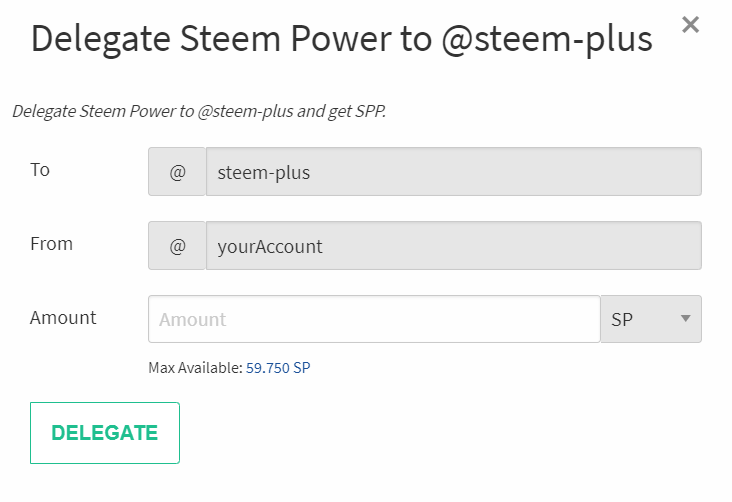
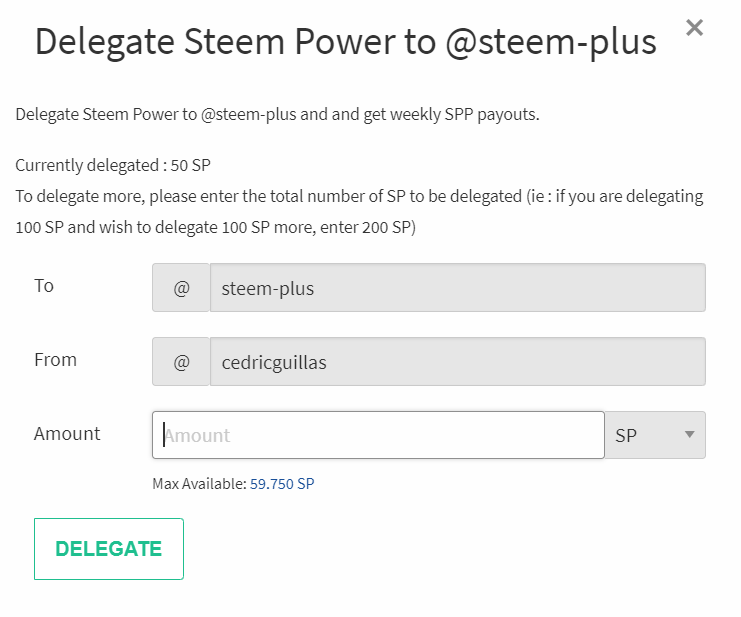
Updated delegation modal style + updated screenshot in slider

diff --git a/src/js/steemplus_points.js b/src/js/steemplus_points.js
@@ -26,7 +26,7 @@ var wayList = [
     {id: "5", title: "Create a new Utopian post using SteemPlus",description: "Post to Utopian by typing utopian-io followed by a space in the tag bar, then following the instructions in the Utopian popup (Login to SteemConnect required).", description_post: "@steem-plus/steemplus-220-utopian--steemplus-partnership--bigger-upvotes", "url": "src/img/howtoearnspp/utopian.png", formula: "The amount @steemplus-pay will receive as a benefactor * 100 (example : if @steemplus-pay receives 5 SBD worth of SP, you will receive 500 SPP)"},
     {id: "6", title: "Buy Steem Monsters packs using SteemPlus",description: "Earn SteemPlus Points (SPP) for each SteemMonsters pack you buy from SteemPlus. <br> If you don\'t have an account on SteemMonsters yet, follow <a href='https://steemmonsters.com/?ref=steemplus-pay' target='_blank'>this link</a> to do so, you will automatically get SPP for all your future purchases.", description_post: "@steem-plus/steemplus-31--buy-your-steem-monsters-packs-from-steemplus-and-earn-steemplus-points-spp", "url": "src/img/howtoearnspp/steemmonsters.png", formula: "You will get 10 times more SPP than the SPP you spend (spend 20 SBD buying cards, earn 200 SPP)"},
     {id: "7", title: "Buy SteemPlus Points",description: "Send STEEM or SBD to @steemplus-pay.", description_post: "@steem-plus/steemplus-32--buy-spp", "url": "src/img/howtoearnspp/buySpp.png", formula: "Send 1 SBD get 100 SPP."},
-    {id: "8", title: "Delegate Steem Power to @steem-plus",description: "Delegate Steem Power to @steem-plus and get SPP", description_post: "@steem-plus/", "url": "src/img/howtoearnspp/delegation.png", formula: "Get 1 SPP per week per SBD worth of Steem Power (SPP per week = AmountSP * STEEMPrice/SBDPrice )"}
+    {id: "8", title: "Delegate Steem Power to @steem-plus",description: "Delegate Steem Power to @steem-plus and get weekly SPP payouts (first payout one week after the first delegation)", description_post: "@steem-plus/", "url": "src/img/howtoearnspp/delegation.png", formula: "Get 1 SPP per week per SBD worth of Steem Power (SPP per week = AmountSP * STEEMPrice/SBDPrice )"}
 ]
 
 // Listener on messages coming from main
@@ -186,7 +186,7 @@ function displaySteemplusPoints(userDetails)
                         <h3 class="column">Delegate Steem Power to @steem-plus</h3>
                     </div>
                     <div class="row">
-                        <label class="disclaimerDelegateSpp">Delegate Steem Power to @steem-plus and get SPP.</label>
+                        <label class="disclaimerDelegateSpp">Delegate Steem Power to @steem-plus and and get weekly SPP payouts.</label>
                     </div>
                     <div class="row">
                         <label class="alreadyDelegating disclaimerDelegateSpp">Currently delegated : ${delegatingToSteemPlus} SP <br>To delegate more, please enter the total number of SP to be delegated (ie : if you are delegating 100 SP and wish to delegate 100 SP more, enter 200 SP)</label>
@@ -573,12 +573,12 @@ async function getMaxSPForSPP(){
     let myOutgoingDelegations = await steem.api.getVestingDelegationsAsync(myAccountSPP.name, null, 10);
     let tmp = 0;
     for (myOutgoingDelegation of myOutgoingDelegations) {
+      let valueDelegation = Math.round(parseFloat(steem.formatter.vestToSteem(myOutgoingDelegation.vesting_shares, totalVestsSPP, totalSteemSPP)) * 100) / 100;
       if(myOutgoingDelegation.delegatee === 'steem-plus') {
-      var valueDelegation = Math.round(parseFloat(steem.formatter.vestToSteem(myOutgoingDelegation.vesting_shares, totalVestsSPP, totalSteemSPP)) * 100) / 100;
         isDelegatingToSteemPlus = true;
         delegatingToSteemPlus = valueDelegation;
       }
-      if(valueDelegation>0)
+      else if(valueDelegation>0)
         tmp += valueDelegation;
     }
     let myTotalOutgoingDelegation = tmp;

diff --git a/src/css/steemplus_points.css b/src/css/steemplus_points.css
@@ -51,7 +51,6 @@ table.sppHistoryTable > tr:nth-child(even) {
 
 .disclaimerBuySpp, .disclaimerDelegateSpp, .errorAmountDelegationMessage {
     margin-bottom: 1rem;
-    font-style: italic;
     text-transform: none;
 }
 .errorAmountDelegationMessage {
